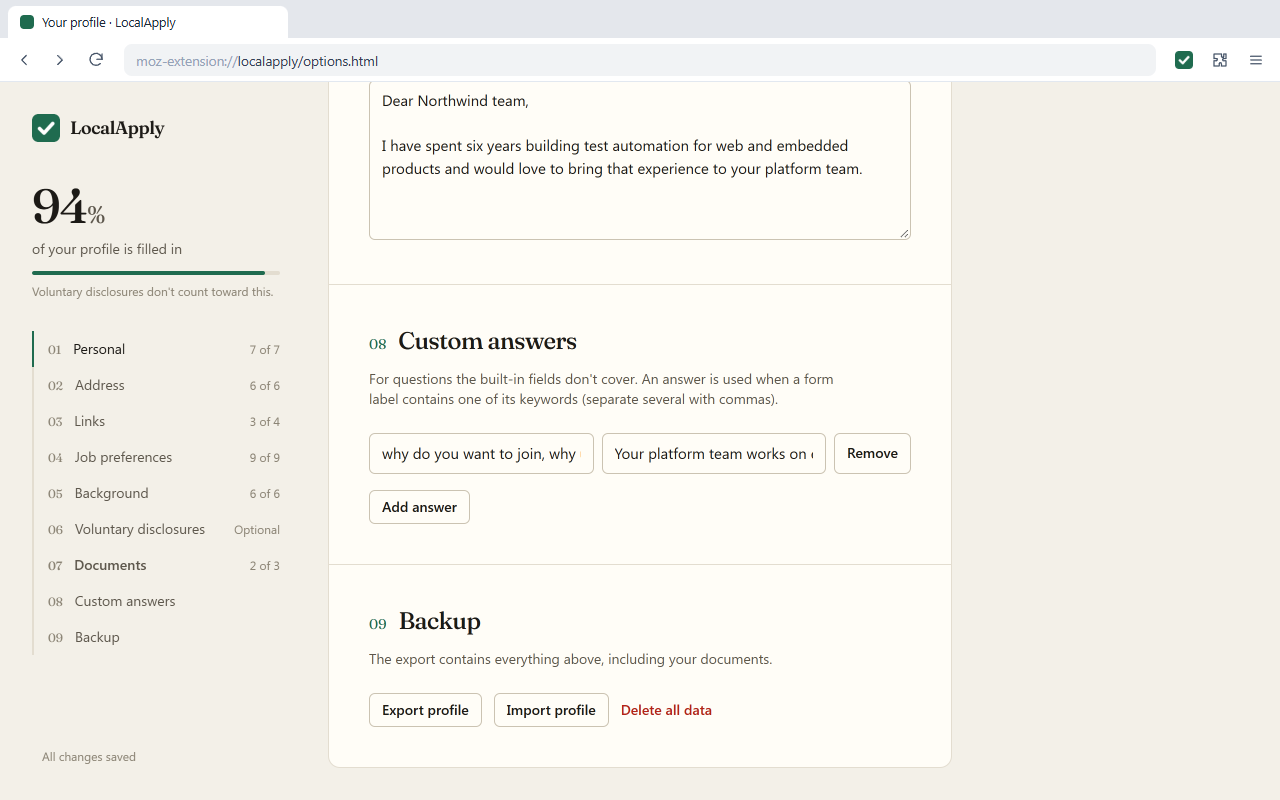
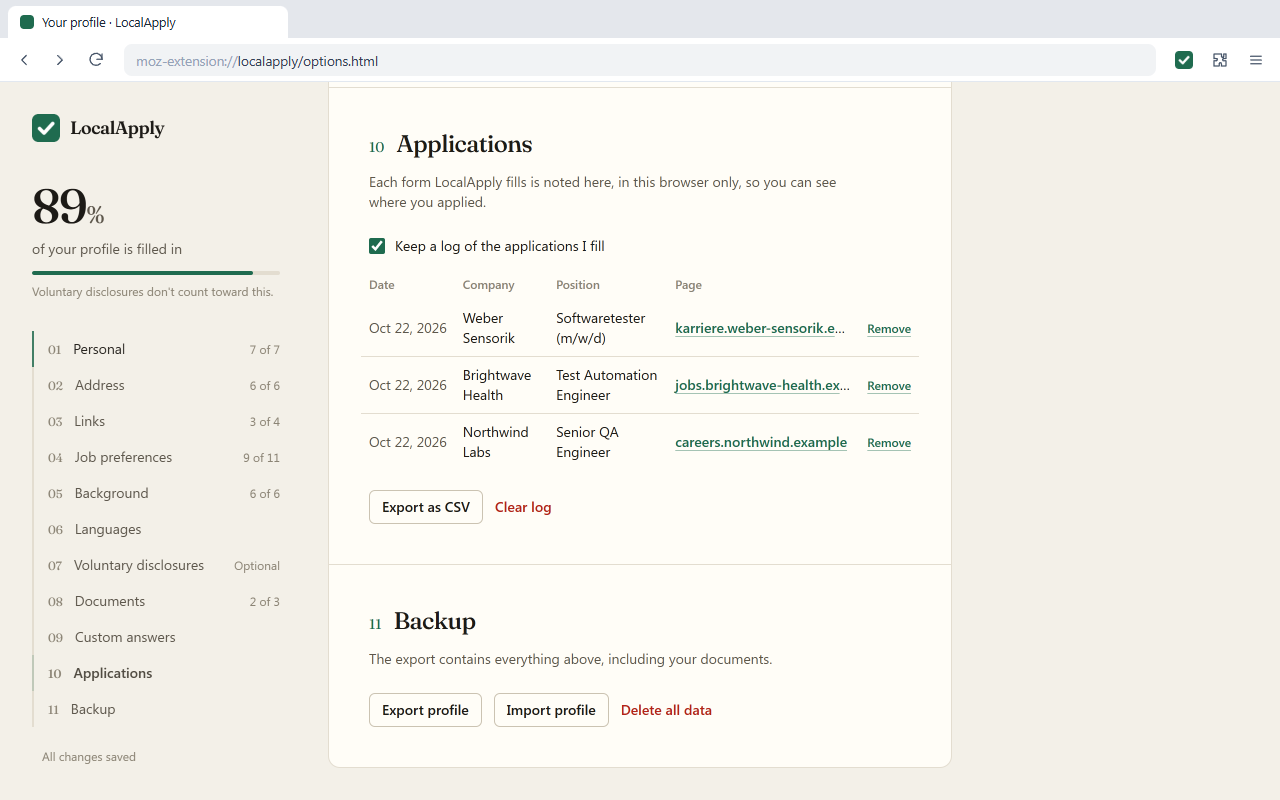
Privacy policy, store disclosures and listings for 0.7.0
PRIVACY.md describes the application log and the employer and job title read for placeholders, and lists every profile field, including sexual orientation (missing since 0.6.0). The Chrome data disclosures now tick Web history and Website content: the log keeps application page addresses and the names read from them, on the device only. Store descriptions in all eight languages mention the new fields, the placeholders and the log; the fifth screenshot shows the log.

diff --git a/store/chrome/privacy-practices.md b/store/chrome/privacy-practices.md
@@ -40,17 +40,17 @@ Select **No, I am not using remote code.**
 
 ### What user data do you plan to collect from users now or in the future?
 
-| Category                            | Tick? | Why                                                                                                                                   |
-| ----------------------------------- | ----- | ------------------------------------------------------------------------------------------------------------------------------------- |
-| Personally identifiable information | Yes   | Name, address, email, phone number, date of birth and nationality are stored in the profile.                                          |
-| Health information                  | Yes   | The optional "Disability" answer (for equal-opportunity questions) is health-related. Declaring it is the safe reading of the policy. |
-| Financial and payment information   | No    | Salary expectation is not financial account or payment data.                                                                          |
-| Authentication information          | No    | No passwords, logins or credentials are stored; password fields are skipped.                                                          |
-| Personal communications             | No    | No emails, texts or chat messages.                                                                                                    |
-| Location                            | No    | The postal address the user types is covered under personally identifiable information; no device location or IP is used.             |
-| Web history                         | No    | Visited sites are not recorded.                                                                                                       |
-| User activity                       | No    | No clicks, keystrokes or browsing behaviour are monitored.                                                                            |
-| Website content                     | No    | Form labels are read in memory to decide where to type, and nothing from the page is stored or sent.                                  |
+| Category                            | Tick? | Why                                                                                                                                                                            |
+| ----------------------------------- | ----- | ------------------------------------------------------------------------------------------------------------------------------------------------------------------------------ |
+| Personally identifiable information | Yes   | Name, address, email, phone number, date of birth and nationality are stored in the profile; optionally also gender and sexual orientation.                                    |
+| Health information                  | Yes   | The optional "Disability" answer (for equal-opportunity questions) is health-related. Declaring it is the safe reading of the policy.                                          |
+| Financial and payment information   | No    | Salary expectation is not financial account or payment data.                                                                                                                   |
+| Authentication information          | No    | No passwords, logins or credentials are stored; password fields are skipped.                                                                                                   |
+| Personal communications             | No    | No emails, texts or chat messages.                                                                                                                                             |
+| Location                            | No    | The postal address the user types is covered under personally identifiable information; no device location or IP is used.                                                      |
+| Web history                         | Yes   | The application log (on by default, can be turned off) keeps the address of each application page the user fills, with the date, on the device only. Browsing is not recorded. |
+| User activity                       | No    | No clicks, keystrokes or browsing behaviour are monitored.                                                                                                                     |
+| Website content                     | Yes   | The employer name and job title read from a page the user fills are kept in the application log on the device. Form labels are only read in memory. Nothing is sent.           |
 
 If you drop the voluntary "Disability" field from the extension in a future release, you can untick Health information.
 

diff --git a/PRIVACY.md b/PRIVACY.md
@@ -1,20 +1,24 @@
 # LocalApply privacy policy
 
-Last updated: 14 October 2026
+Last updated: 22 October 2026
 
 LocalApply is a browser extension that fills job application forms with information you save in it. This policy explains what information it handles and what happens to it. In short: everything stays in your browser, on your device. Nothing is sent to the developer or anyone else.
 
 ## What information LocalApply handles
 
-Only what you enter on its profile page:
+What you enter on its profile page, and the application log described below:
 
 - **Personal and contact details:** name, salutation, email address, phone number, date of birth, nationality and postal address.
-- **Professional details:** links (LinkedIn, GitHub, Xing, portfolio), current job title and employer, education, salary expectation, notice period, earliest start date, years of experience, work authorisation, visa sponsorship and relocation preferences.
+- **Professional details:** links (LinkedIn, GitHub, Xing, portfolio), current job title and employer, education and highest education level, spoken languages and their level, salary expectation and range, notice period, earliest start date, years of experience, work authorisation, visa sponsorship, relocation and travel preferences, and driving licence.
 - **Documents:** your CV and cover letter files, and cover letter text.
 - **Saved answers** to application questions.
-- **Optional voluntary disclosures**, only if you fill them in: gender, disability status and veteran status.
+- **Optional voluntary disclosures**, only if you fill them in: gender, sexual orientation, disability status and veteran status.
 
-To decide which form field needs which piece of your information, LocalApply reads the labels and structure of the form on the page you ask it to fill. It does not store or send anything it reads from web pages, and it does not record which sites you visit.
+To decide which form field needs which piece of your information, LocalApply reads the labels and structure of the form on the page you ask it to fill. When you ask it to fill a page, it also reads the employer's name and the job title from that page, to put them into your cover letter and saved answers where you wrote {company} or {position}. It never sends anything it reads from web pages anywhere, and it does not record the sites you browse.
+
+## Application log
+
+So you can see where you applied, LocalApply notes each application form it fills: the date, the employer's name and job title as read from the page, and the page's address without anything after it (no "?…" query, which can contain tokens). The log is on unless you turn it off, and is stored only in your browser like your profile. On the profile page, under Applications, you can turn it off, remove single entries, clear it, or export it as a CSV file. Nothing is noted for pages you only visit, and "Delete all data" clears the log too.
 
 ## How the information is used
 
@@ -30,7 +34,7 @@ LocalApply has no server, no analytics and no advertising, and makes no network 
 
 ## Keeping, exporting and deleting your information
 
-Your information stays until you change or delete it. On the profile page you can export everything to a file, or delete it all with "Delete all data". Removing the extension also deletes everything it stored.
+Your information stays until you change or delete it. On the profile page you can export your profile to a file, export the application log as CSV, or delete it all with "Delete all data". Removing the extension also deletes everything it stored.
 
 ## Chrome Web Store User Data Policy
 

diff --git a/README.md b/README.md
@@ -22,8 +22,10 @@ Everything stays in the browser: no account, no server, no AI service, no networ
 
 ## Features
 
-- **Fills the repetitive part:** name, email, phone (including country-code pickers), address, date of birth, LinkedIn, GitHub, Xing and portfolio links, salary expectation, notice period, start date, years of experience, work authorisation, visa sponsorship and relocation questions, current job, highest education level and degree, CV and cover letter.
+- **Fills the repetitive part:** name, email, phone (including country-code pickers), address, date of birth, LinkedIn, GitHub, Xing and portfolio links, salary expectation, notice period, start date, years of experience, work authorisation, visa sponsorship and relocation questions, current job, highest education level and degree, spoken languages and their level, driving licence, travel and salary-range questions, CV and cover letter.
 - **Works in eight languages:** recognises form labels in English, German, French, Spanish, Italian, Dutch, Portuguese and Polish, and the interface itself speaks all eight.
+- **Writes to the right company:** put `{company}` and `{position}` in your cover letter or saved answers and they are replaced with the employer and job title from the page, even when the form sits in an embedded frame.
+- **Keeps track:** every application it fills is noted in a log in your browser, with date, company, job title and link, ready to export as CSV. You can turn it off.
 - **Answers each question once:** save your reply to a recurring question like "How did you hear about us?" and it is filled in next time.
 - **Shows what it did:** filled fields get a solid green outline, open required questions a dashed amber one. **Undo** puts everything back.
 - **Never submits:** it doesn't press Submit or Next, doesn't tick consent boxes, and leaves fields you already filled alone.

diff --git a/store/firefox/listing.fr.md b/store/firefox/listing.fr.md
@@ -24,4 +24,4 @@ In [`description.fr.md`](description.fr.md), ready to paste as-is.
 | `2-saved-answers.png`      | Une réponse enregistrée remplit « Why do you want to join? » et le niveau d’études est choisi parmi les options. Les questions restées ouvertes sont entourées en orange ; enregistrez votre réponse une fois et elle sera réutilisée. |
 | `3-any-language.png`       | Fonctionne en huit langues, l’interface aussi. Ici une candidature allemande : civilité, adresse, date de naissance et date de début au bon format.                                                                                    |
 | `4-profile.png`            | Saisissez vos informations une fois sur la page de profil et choisissez les couleurs qui vous plaisent. Tout reste uniquement dans votre navigateur.                                                                                   |
-| `5-answers-and-backup.png` | Gardez vos réponses aux questions récurrentes, et exportez ou supprimez toutes vos données à tout moment.                                                                                                                              |
+| `5-answers-and-backup.png` | Chaque candidature remplie est notée dans un journal sur votre ordinateur, exportable en CSV. Exportez ou supprimez toutes vos données à tout moment.                                                                                  |

diff --git a/store/firefox/listing.de.md b/store/firefox/listing.de.md
@@ -24,4 +24,4 @@ In [`description.de.md`](description.de.md), ready to paste as-is.
 | `2-saved-answers.png`      | Eine gespeicherte Antwort füllt „Why do you want to join?" aus, der Bildungsabschluss wird aus den Optionen gewählt. Offene Fragen werden gelb umrandet; speichere deine Antwort einmal, und sie wird wiederverwendet. |
 | `3-any-language.png`       | Funktioniert in acht Sprachen, auch die Oberfläche selbst. Hier eine deutsche Bewerbung: Anrede, Adresse, Geburtsdatum und Eintrittstermin im passenden Format.                                                        |
 | `4-profile.png`            | Gib deine Daten einmal auf der Profilseite ein und wähle die Farben, die dir gefallen. Alles bleibt nur in deinem Browser.                                                                                             |
-| `5-answers-and-backup.png` | Antworten auf wiederkehrende Fragen speichern und alle Daten jederzeit exportieren oder löschen.                                                                                                                       |
+| `5-answers-and-backup.png` | Jede ausgefüllte Bewerbung wird in einem Protokoll auf deinem Rechner vermerkt, als CSV exportierbar. Alle Daten jederzeit exportieren oder löschen.                                                                   |

diff --git a/store/firefox/listing.pt.md b/store/firefox/listing.pt.md
@@ -24,4 +24,4 @@ In [`description.pt.md`](description.pt.md), ready to paste as-is.
 | `2-saved-answers.png`      | Uma resposta guardada preenche «Why do you want to join?» e o nível de escolaridade é escolhido entre as opções. As perguntas em aberto ficam com contorno laranja; guarde a resposta uma vez e ela é reutilizada. |
 | `3-any-language.png`       | Funciona em oito línguas, também na própria interface. Aqui, uma candidatura alemã: tratamento, morada, data de nascimento e data de início no formato certo.                                                      |
 | `4-profile.png`            | Introduza os seus dados uma vez na página de perfil e escolha as cores de que gosta. Tudo fica apenas no seu navegador.                                                                                            |
-| `5-answers-and-backup.png` | Guarde respostas a perguntas recorrentes, e exporte ou apague todos os seus dados quando quiser.                                                                                                                   |
+| `5-answers-and-backup.png` | Cada candidatura preenchida fica num registo no seu computador, exportável como CSV. Exporte ou apague todos os seus dados quando quiser.                                                                          |

diff --git a/store/firefox/listing.en.md b/store/firefox/listing.en.md
@@ -46,4 +46,4 @@ Upload in this order from `../screenshots/`. The images carry no text, as Mozill
 | `2-saved-answers.png`      | A saved answer fills "Why do you want to join?", and your education level is picked from the choices. Questions LocalApply can't answer are outlined in amber; save your reply once and it is reused next time. |
 | `3-any-language.png`       | Works in eight languages, and so does LocalApply itself. Here a German application, with salutation, address, date of birth and start date in the format the form expects.                                      |
 | `4-profile.png`            | Enter your details once on the profile page and pick the colours you like. Everything is stored in your browser only.                                                                                           |
-| `5-answers-and-backup.png` | Keep answers to recurring questions, and export or delete all your data at any time.                                                                                                                            |
+| `5-answers-and-backup.png` | Every application you fill is noted in a log on your computer, ready to export as CSV. Export or delete all your data at any time.                                                                              |

diff --git a/store/firefox/listing.pl.md b/store/firefox/listing.pl.md
@@ -24,4 +24,4 @@ In [`description.pl.md`](description.pl.md), ready to paste as-is.
 | `2-saved-answers.png`      | Zapisana odpowiedź wypełnia „Why do you want to join?”, a poziom wykształcenia jest wybierany z dostępnych opcji. Otwarte pytania mają pomarańczową ramkę; zapisz odpowiedź raz, a zostanie użyta ponownie. |
 | `3-any-language.png`       | Działa w ośmiu językach, także sam interfejs. Tu niemiecka aplikacja: zwrot grzecznościowy, adres, data urodzenia i termin rozpoczęcia we właściwym formacie.                                               |
 | `4-profile.png`            | Wpisz swoje dane raz na stronie profilu i wybierz kolory, które Ci się podobają. Wszystko zostaje tylko w Twojej przeglądarce.                                                                              |
-| `5-answers-and-backup.png` | Zapisuj odpowiedzi na powtarzające się pytania oraz eksportuj albo usuwaj wszystkie dane w dowolnej chwili.                                                                                                 |
+| `5-answers-and-backup.png` | Każda wypełniona aplikacja trafia do dziennika na Twoim komputerze, z eksportem do CSV. Eksportuj albo usuwaj wszystkie dane w dowolnej chwili.                                                             |

diff --git a/store/firefox/listing.it.md b/store/firefox/listing.it.md
@@ -24,4 +24,4 @@ In [`description.it.md`](description.it.md), ready to paste as-is.
 | `2-saved-answers.png`      | Una risposta salvata compila «Why do you want to join?» e il titolo di studio viene scelto tra le opzioni. Le domande aperte sono bordate di arancione; salva la risposta una volta e verrà riutilizzata. |
 | `3-any-language.png`       | Funziona in otto lingue, anche l’interfaccia. Qui una candidatura tedesca: titolo, indirizzo, data di nascita e data di inizio nel formato giusto.                                                        |
 | `4-profile.png`            | Inserisci i tuoi dati una volta nella pagina del profilo e scegli i colori che preferisci. Tutto resta solo nel tuo browser.                                                                              |
-| `5-answers-and-backup.png` | Salva le risposte alle domande ricorrenti, ed esporta o elimina tutti i tuoi dati in qualsiasi momento.                                                                                                   |
+| `5-answers-and-backup.png` | Ogni candidatura compilata viene annotata in un registro sul tuo computer, esportabile in CSV. Esporta o elimina tutti i tuoi dati in qualsiasi momento.                                                  |

diff --git a/store/firefox/listing.es.md b/store/firefox/listing.es.md
@@ -24,4 +24,4 @@ In [`description.es.md`](description.es.md), ready to paste as-is.
 | `2-saved-answers.png`      | Una respuesta guardada rellena «Why do you want to join?» y el nivel de estudios se elige entre las opciones. Las preguntas abiertas se marcan en naranja; guarda tu respuesta una vez y se reutilizará. |
 | `3-any-language.png`       | Funciona en ocho idiomas, también la propia interfaz. Aquí, una candidatura alemana: tratamiento, dirección, fecha de nacimiento y fecha de incorporación en el formato correcto.                        |
 | `4-profile.png`            | Introduce tus datos una vez en la página de perfil y elige los colores que te gusten. Todo se queda solo en tu navegador.                                                                                |
-| `5-answers-and-backup.png` | Guarda respuestas a preguntas habituales y exporta o borra todos tus datos cuando quieras.                                                                                                               |
+| `5-answers-and-backup.png` | Cada candidatura que rellenas queda anotada en un registro en tu ordenador, exportable como CSV. Exporta o borra todos tus datos cuando quieras.                                                         |

diff --git a/store/firefox/listing.nl.md b/store/firefox/listing.nl.md
@@ -24,4 +24,4 @@ In [`description.nl.md`](description.nl.md), ready to paste as-is.
 | `2-saved-answers.png`      | Een bewaard antwoord vult "Why do you want to join?" in en het opleidingsniveau wordt uit de opties gekozen. Open vragen krijgen een oranje rand; bewaar je antwoord één keer en het wordt hergebruikt. |
 | `3-any-language.png`       | Werkt in acht talen, ook de interface zelf. Hier een Duitse sollicitatie: aanhef, adres, geboortedatum en startdatum in het juiste formaat.                                                             |
 | `4-profile.png`            | Vul je gegevens één keer in op de profielpagina en kies de kleuren die je mooi vindt. Alles blijft alleen in je browser.                                                                                |
-| `5-answers-and-backup.png` | Bewaar antwoorden op terugkerende vragen, en exporteer of verwijder al je gegevens wanneer je wilt.                                                                                                     |
+| `5-answers-and-backup.png` | Elke ingevulde sollicitatie komt in een logboek op je computer, te exporteren als CSV. Exporteer of verwijder al je gegevens wanneer je wilt.                                                           |

diff --git a/store/firefox/description.fr.md b/store/firefox/description.fr.md
@@ -14,6 +14,8 @@
 - Liens LinkedIn, GitHub, Xing et portfolio
 - Prétentions salariales, préavis, date de début au plus tôt et années d’expérience
 - Questions sur l’autorisation de travail, le visa et la mobilité
+- Langues parlées et leur niveau, permis de conduire, déplacements et fourchette de salaire
+- Votre lettre de motivation et vos réponses enregistrées, avec {company} et {position} remplacés par l’employeur et l’intitulé du poste
 - Poste actuel, employeur, formation et plus haut niveau d’études
 - CV et lettre de motivation en fichier, et texte de la lettre de motivation
 
@@ -32,6 +34,7 @@ Greenhouse, Ashby, Personio, Recruitee, Teamtailor et les pages carrières ordin
 - Ne clique jamais sur « Envoyer » ou « Suivant » et ne coche jamais de case de consentement.
 - Ne touche pas aux champs que vous avez déjà remplis.
 - Exportez votre profil dans un fichier, ou supprimez tout en un clic.
+- Le journal des candidatures remplies reste lui aussi sur votre ordinateur ; désactivez-le, videz-le ou exportez-le en CSV.
 
 **Pourquoi il a besoin d’accéder à tous les sites**
 
